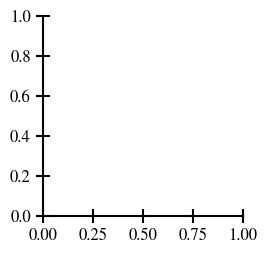
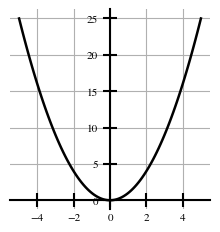
fixed _graph

Changed region(s): [[0.0273, 0.0302, 0.9818, 0.9655]]

diff --git a/dominopy.py b/dominopy.py
@@ -3,7 +3,7 @@ import numpy as np
 import matplotlib.pyplot as plt
 import json
 
-plt.rc('font',family='STIXGeneral',size=14) # STIX looks like latex
+plt.rc('font',family='STIXGeneral',size=12) # STIX looks like latex
 plt.rc('mathtext',fontset='stix')
 # plt.rc('figure', figsize=(1.41421356237*6.,6.) )
 # plt.rc('figure.subplot', right=0.96464466094,top=0.95 )
@@ -11,7 +11,7 @@ plt.rc('lines', linewidth=1.8,marker='None',markersize=8 )
 plt.rc('axes', linewidth=1.5,labelsize=12,prop_cycle=plt.cycler(color=('k','r','c','darkorange','steelblue','hotpink','gold','b','maroon','darkgreen')) )
 plt.rc(('xtick.major','ytick.major'), size=5.2,width=1.5)
 # plt.rc(('xtick.minor','ytick.minor'), size=3.2,width=1.5,visible=True)
-plt.rc(('xtick','ytick'), labelsize=12)#, direction='in' )
+plt.rc(('xtick','ytick'), labelsize=8)#, direction='in' )
 # plt.rc(('xtick'), top=True,bottom=True ) # For some stupid reason you have to do these separately
 # plt.rc(('ytick'), left=True,right=True )
 # plt.rc('legend',numpoints=1,scatterpoints=1,labelspacing=0.2,fontsize=18,fancybox=True,handlelength=1.5,handletextpad=0.5)
@@ -23,17 +23,19 @@ plt.rc(('xtick','ytick'), labelsize=12)#, direction='in' )
 
 
 def format_graph(ax):
-    # pass
-    # ax.spines['left'].set_position('zero')
-    # ax.spines['right'].set_color('none')
-    # ax.spines['right'].set_position('zero')
-    # ax.spines['bottom'].set_position('zero')
-    # ax.spines['top'].set_color('none')
+    ax.spines['left'].set_position('zero')
+    ax.spines['right'].set_color('none')
+    ax.spines['right'].set_position('zero')
+    ax.spines['bottom'].set_position('zero')
+    ax.spines['top'].set_color('none')
     ax.spines['top'].set_position('zero')
 
     # remove the ticks from the top and right edges
     ax.xaxis.set_ticks_position('both')
     ax.yaxis.set_ticks_position('both')
+    
+    ax.grid()
+    
 
 def format_formulatable(ax):
     ax.spines['left'].set_color('none')
@@ -167,9 +169,10 @@ def make_figures(loc,obj):
     ## Graph
     fig,ax = _inifig()
     
-    xarr = np.arange(obj['graph']['xrange'][0],obj['graph']['xrange'][1],100)
+    xarr = np.linspace(obj['graph']['xrange'][0],obj['graph']['xrange'][1],100)
     yarr = xarr*xarr
-    
+    print(obj['graph']['xrange'][0],obj['graph']['xrange'][1])
+    print(xarr,yarr)
     ax.plot(xarr,yarr)
     
     format_graph(ax)
